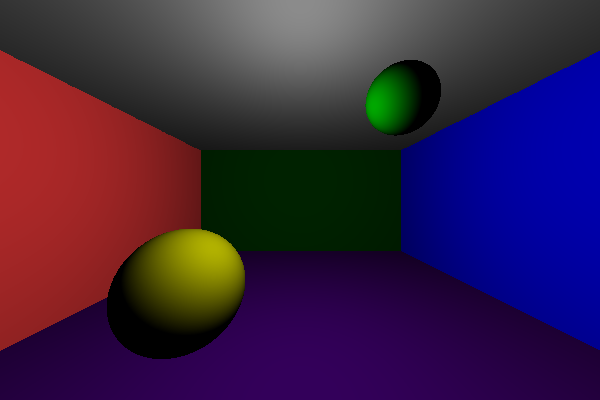
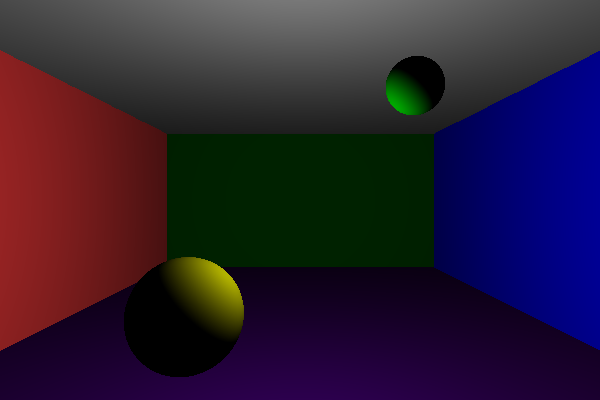
Fix some geometry errors
Code is a mess. Commit is for reference, for the work on shadows

diff --git a/src/smoke_and_mirrors.cpp b/src/smoke_and_mirrors.cpp
@@ -5,7 +5,6 @@
 #include <cmath>
 #include <iostream>
 #include <string>
-#include <fstream>
 #include <chrono>
 
 #include "utility.h"
@@ -29,8 +28,8 @@ int main(){
 	const int verticalResolution = resolution * aspectRatioHeight;
 	auto image = new PPM[verticalResolution][horizontalResolution];
 
-	const float viewportWidth = 6;
-	const float viewportHeight = 4;
+	const float viewportWidth = 3;
+	const float viewportHeight = 2;
 
 	float deltaX = viewportWidth / horizontalResolution;
 	float deltaY = viewportHeight / verticalResolution;
@@ -53,22 +52,25 @@ int main(){
 	Colour backgroundColour = Colour();
 
 	//Planes TODO convert to rectangles/triangle meshes
-	Plane leftRedWall = Plane(Vector3(-1, 0,0), Vector3(-10, 0, 0), Colour(255, 60, 60));
-	Plane backdarkGreenWall = Plane(Vector3(0, 0, -1), Vector3(1, 0 , -20), Colour(0, 50, 0));
-	Plane rightBlueWall = Plane(Vector3(1, 0, 0), Vector3(10, 0, 0), Colour(0, 0, 255));
-	Plane purpleFloor = Plane(Vector3(0, -1, 0), Vector3(0, -5, 0), Colour(75, 0, 130));
-	Plane greyCeiling = Plane(Vector3(0, 1, 0), Vector3(0, 5, 0), Colour(200, 200, 200));
+	Plane leftRedWall = Plane(Vector3(1, 0,0), Vector3(-10, 0, 0), Colour(255, 60, 60));
+	Plane backdarkGreenWall = Plane(Vector3(0, 0, 1), Vector3(1, 0 , -30), Colour(0, 50, 0));
+	Plane rightBlueWall = Plane(Vector3(-1, 0, 0), Vector3(10, 0, 0), Colour(0, 0, 255));
+	Plane purpleFloor = Plane(Vector3(0, 1, 0), Vector3(0, -5, 0), Colour(75, 0, 130));
+	Plane greyCeiling = Plane(Vector3(0, -1, 0), Vector3(0, 5, 0), Colour(200, 200, 200));
 
 	//Spheres
-	Sphere yellowSphere = Sphere(2, Vector3(-4, -3, -7), Colour(255, 255, 0));
-	Sphere lightGreenSphere = Sphere(1, Vector3(3, 3, -6), Colour(0, 240, 0));
+	Sphere yellowSphere = Sphere(1, Vector3(-2, -2, -7), Colour(255, 255, 0));
+	Sphere lightGreenSphere = Sphere(0.5, Vector3(2, 2, -7), Colour(0, 240, 0));
 
-	Object* objects[] = { &leftRedWall, &backdarkGreenWall, &rightBlueWall, &purpleFloor, &greyCeiling,  &yellowSphere, &lightGreenSphere };
+	Object* objects[] = { &leftRedWall, &backdarkGreenWall, &rightBlueWall, &purpleFloor, &greyCeiling, &yellowSphere,  &lightGreenSphere };
+	//Object* objects[] = {  &lightGreenSphere };
+	//Object* objects[] = { &backdarkGreenWall };
+	//Object* objects[] = { &rightBlueWall, &lightGreenSphere };
 	const size_t numberOfObjects = std::size(objects);
 
 	//Lights
 	DirectionalLight directionalLight = DirectionalLight(1, Vector3(10, -1, 0));
-	PointLight ceilingLight = PointLight(0.7f, Vector3(0, 2, -5));
+	PointLight ceilingLight = PointLight(0.7f, Vector3(0, 0, -7));
 
 	PointLight* PointLights[] = { &ceilingLight };
 	const size_t numberOfLights = std::size(PointLights);
@@ -78,15 +80,15 @@ int main(){
 
 			Vector3 viewVector = camera.upperLeftCorner + Vector3(deltaX * x, -deltaY * y, -1);
 
-			Ray ray = Ray(camera.cameraLocation, normalise(viewVector));
+			Ray ray = Ray( camera.cameraLocation, viewVector);
 			//std::cout << "**************************************************************************** \n \n";
-			//std::cout << "Ray - x: " << std::to_string(ray.parallelTo.x) << " y: " << std::to_string(ray.parallelTo.y) << " z: " << std::to_string(ray.parallelTo.z) << "\n";
+			//std::cout << "Ray - x: " << std::to_string(ray.direction.x) << " y: " << std::to_string(ray.direction.y) << " z: " << std::to_string(ray.direction.z) << "\n";
 
 			Colour illuminatedColour = backgroundColour;
-			Path tracedPath = trace(objects, ray, numberOfObjects);
+			Path tracedPath = trace(objects, ray, numberOfObjects, 1, INFINITY);
 
 			if (tracedPath.firstIntersection.intersected) {
-				illuminatedColour = shade(tracedPath, ray, PointLights, numberOfLights);
+				illuminatedColour = shade(tracedPath, ray, PointLights, numberOfLights, objects, numberOfObjects);
 			}
 
 			// Convert to pixel coordinates

diff --git a/src/geometry.cpp b/src/geometry.cpp
@@ -58,12 +58,12 @@ Vector3 normalise(Vector3 vector) {
 	return Vector3(k * vector.x, k * vector.y, k * vector.z);
 }
 
-Ray::Ray() : passesThrough{ Vector3() }, parallelTo{ Vector3(1,1,1) } {}
+Ray::Ray() : origin{ Vector3() }, direction{ Vector3(1,1,1) } {}
 
-Ray::Ray(Vector3 point, Vector3 vector) : passesThrough{ point }, parallelTo{ vector }  {}
+Ray::Ray(Vector3 origin, Vector3 direction) : origin{ origin }, direction{ direction }  {}
 
 Vector3 Ray::pointOnRay(float t) {
-	return this->passesThrough + t * this->parallelTo;
+	return this->origin + t * this->direction;
 }
 
 Plane::Plane() : normal{ Vector3(0, 0, 1) }, point{ Vector3(0, 1, 1) }, colour(Colour()) {}
@@ -75,11 +75,11 @@ Colour Plane::getColour() {
 
 rayIntersection Plane::rayHit(Ray ray) {
 	constexpr float epsilon = 1.0e-20;
-	const float rayDirectionDotPlaneNormal = dot(normal, ray.parallelTo);
+	const float rayDirectionDotPlaneNormal = dot(normal, ray.direction);
 	if (abs(rayDirectionDotPlaneNormal) <= epsilon) {
 		return rayIntersection{ false,  -INFINITY };
 	} else {
-		const float originsDifferenceDotNormal = dot(normal, point - ray.passesThrough);
+		const float originsDifferenceDotNormal = dot(normal, point - ray.origin);
 		if (abs(originsDifferenceDotNormal) <= epsilon) {
 			return rayIntersection{ false,  -INFINITY }; //Should be reworked in the future
 		} else {
@@ -97,19 +97,21 @@ Colour Sphere::getColour() {
 }
 
 rayIntersection Sphere::rayHit(Ray ray) {
-	float discriminant = std::pow(dot(ray.parallelTo, ray.passesThrough - centre), 2)
-		- ((ray.passesThrough - centre).length_squared() - radius * radius);
+	float lineDirectionNorm = ray.direction.length_squared();
+	float discriminant = std::pow(dot(ray.direction, ray.origin - centre), 2)
+		-  ( lineDirectionNorm * ((ray.origin - centre).length_squared() - radius * radius));
 	if (discriminant > 0) {
 		//std::cout << "Sphere hit \n";
-		const float t = -(dot(ray.parallelTo, (ray.passesThrough - centre))) - std::sqrt(discriminant);
+		const float t = (-(dot(ray.direction, (ray.origin - centre))) - std::sqrt(discriminant)) * (1.0f/lineDirectionNorm);
 		return rayIntersection{ true, t };
 	} else	return rayIntersection{ false,  -INFINITY };
 }
 
 Vector3 Sphere::surfaceNormal(Vector3 pointOnSurface) {
-	return normalise((pointOnSurface - centre));
+	Vector3 normal = normalise((pointOnSurface - centre));
+	return normal;
 }
 
 Vector3 Plane::surfaceNormal(Vector3 pointOnSurface) {
-	return -normalise(normal);
+	return normalise(normal);
 }

diff --git a/src/shade.cpp b/src/shade.cpp
@@ -1,16 +1,28 @@
 #include "shade.h"
 
 
-Colour shade(Path path, Ray ray, PointLight** lights, size_t numberOfLights) {
+
+Colour shade(Path path, Ray ray, PointLight** lights, size_t numberOfLights, Object** objects, size_t numberOfObjects ) {
 	Colour baseColourOfIntersection = path.objectHit->getColour();
 	Colour illuminatedColour = Colour(0, 0, 0);
 	for (size_t i = 0; i < numberOfLights; i++) {
-		Vector3 rayOfLightDirection = lights[i]->rayFromLightToPoint(path.firstIntersectionPoint);
+		Vector3 rayOfLightDirection = lights[i]->rayFromPointToLight(path.firstIntersectionPoint);
 		Vector3 normalisedRayOfLightDirection = normalise(rayOfLightDirection);
-		float cameraLightDistance = rayOfLightDirection.length() + path.firstIntersectionPoint.length();
-		float lambertianReflectanceCoefficient = std::max(0.0f, dot(path.objectHit->surfaceNormal(path.firstIntersectionPoint), normalisedRayOfLightDirection));
-		illuminatedColour = illuminatedColour + (baseColourOfIntersection * lights[i]->intensity * lambertianReflectanceCoefficient);
-	}
+		Ray fromIntersectionToLight = Ray(path.firstIntersectionPoint , rayOfLightDirection);
+		float intersectionToLightDistance = rayOfLightDirection.length();
+		//Path shadowPath = trace(objects, fromIntersectionToLight, numberOfObjects, -0.8f, -0.2f);
+		//std::cout << "x: " << std::to_string(fromIntersectionToLight.origin.x) << " y: " << std::to_string(fromIntersectionToLight.origin.y) << " z: " << std::to_string(fromIntersectionToLight.origin.z) << "\n";
+		//if (!shadowPath.firstIntersection.intersected) {
 
+			float cameraLightDistance = rayOfLightDirection.length() + path.firstIntersectionPoint.length();
+			Vector3 normal = path.objectHit->surfaceNormal(path.firstIntersectionPoint);
+			float lambertianReflectanceCoefficient = std::max(0.0f, dot(path.objectHit->surfaceNormal(path.firstIntersectionPoint), normalisedRayOfLightDirection));
+			illuminatedColour = illuminatedColour + (baseColourOfIntersection * lights[i]->intensity * lambertianReflectanceCoefficient);
+		//} else {
+		//	std::cout << "Light blocked! \n";
+		//	std::cout << "x: " << std::to_string(path.firstIntersectionPoint.x) << " y: " << std::to_string(path.firstIntersectionPoint.y) << " z: " << std::to_string(path.firstIntersectionPoint.z) << "\n";
+		//	std::cout << std::to_string(shadowPath.objectHit->getColour().blue) << " \n";
+		//}
+	}
 	return illuminatedColour;
 }

diff --git a/src/trace.cpp b/src/trace.cpp
@@ -4,24 +4,23 @@
 #include <string>
 #include <vector>
 
-Path trace(Object **objects, Ray ray, size_t numberOfObjects){
+Path trace(Object **objects, Ray ray, size_t numberOfObjects, float tMin, float tMax){
 	//std::cout << std::to_string(numberOfObjects) << "\n";
 	rayIntersection firstIntersection{ false };
 	float distanceToIntersection = INFINITY;
+	float y = ray.origin.y;
+	float z = ray.origin.z;
 	Path tracedPath { firstIntersection , Vector3(), nullptr };
 	for (size_t i = 0; i < numberOfObjects; i++) {
 		//std::cout << "Index: " << std::to_string(i) << "\n";
-		//if (&objects[i] != nullptr) {
-			const rayIntersection rayIntersection = objects[i]->rayHit(ray);
-			if (rayIntersection.intersected && rayIntersection.t > 0 && rayIntersection.t < distanceToIntersection) {
-				firstIntersection = rayIntersection;
-				distanceToIntersection = firstIntersection.t;
-				Object *objectHit = objects[i];
-				Vector3 intersectionPoint = ray.pointOnRay(firstIntersection.t);
-				tracedPath = { firstIntersection, intersectionPoint, objectHit };
-			}
-		//} else continue;
+		const rayIntersection rayIntersection = objects[i]->rayHit(ray);
+		if (rayIntersection.intersected && rayIntersection.t > tMin && rayIntersection.t < tMax && rayIntersection.t < distanceToIntersection) {
+			firstIntersection = rayIntersection;
+			distanceToIntersection = firstIntersection.t;
+			Object *objectHit = objects[i];
+			Vector3 intersectionPoint = ray.pointOnRay(firstIntersection.t);
+			tracedPath = { firstIntersection, intersectionPoint, objectHit };
+		}
 	} 
-
 return tracedPath;
 }

diff --git a/src/geometry.h b/src/geometry.h
@@ -2,6 +2,7 @@
 
 #include <cmath>
 
+#include <iostream>
 
 #include "utility.h"
 
@@ -27,11 +28,11 @@ Vector3 normalise(Vector3 vector);
 
 class Ray {
 public:
-	Vector3 passesThrough;
-	Vector3 parallelTo;
+	Vector3 origin;
+	Vector3 direction;
 
 	Ray();
-	Ray(Vector3 vector, Vector3 point);
+	Ray(Vector3 origin, Vector3 direction);
 
 	Vector3 pointOnRay(float t);
 };

diff --git a/src/shade.h b/src/shade.h
@@ -3,6 +3,10 @@
 #include "geometry.h"
 #include "light.h"
 #include <algorithm>
+#include "trace.h"
+#include <iostream>
+#include <string>
 
 
-Colour shade(Path path, Ray ray, PointLight** lights, size_t numberOfLights);
+
+Colour shade(Path path, Ray ray, PointLight** lights, size_t numberOfLights, Object** objects, size_t numberOfObjects);

diff --git a/src/light.cpp b/src/light.cpp
@@ -20,5 +20,9 @@ PointLight::PointLight(float intensityInit,Vector3 location) : Light(intensityIn
 
 
 Vector3 PointLight::rayFromLightToPoint(Vector3 point) {
+	return point - location;
+}
+
+Vector3 PointLight::rayFromPointToLight(Vector3 point) {
 	return location - point;
 }

diff --git a/src/trace.h b/src/trace.h
@@ -1,4 +1,4 @@
 #pragma once
 #include "geometry.h"
 
-Path trace(Object **objects, Ray ray, size_t numberOfObjects);
+Path trace(Object** objects, Ray ray, size_t numberOfObjects, float tMin, float tMax);

diff --git a/src/light.h b/src/light.h
@@ -26,4 +26,5 @@ public:
 	PointLight();
 	PointLight(float intensity, Vector3 location);
 	Vector3 rayFromLightToPoint(Vector3 point);
+	Vector3 rayFromPointToLight(Vector3 point);
 };
